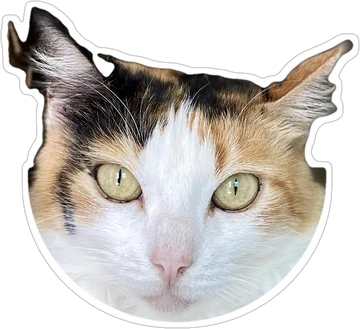
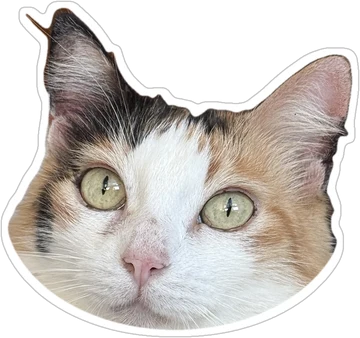
Links: nova figurinha da Mel e versão nova das imagens dos bichos
Claude-Session: https://claude.ai/code/session_01JJzwKmvC96HGkRzqWkPA92

diff --git a/links/index.html b/links/index.html
@@ -631,7 +631,7 @@
       <div class="bastidores revelar">
         <h3>Minha equipe de bastidores</h3>
         <p>Amo bicho desde criança. Toda gravação aqui em casa tem plateia (e, às vezes, participação especial).</p>
-        <div class="figurinhas"><figure class="figurinha"><img class="bicho" src="makes/pet-maya.webp" alt="Maya, gata tigrada cinza e branca" loading="lazy"><figcaption>Maya</figcaption></figure><figure class="figurinha"><img class="bicho" src="makes/pet-mel.webp" alt="Mel, gata tricolor" loading="lazy"><figcaption>Mel</figcaption></figure><figure class="figurinha"><img class="bicho" src="makes/pet-maggie.webp" alt="Maggie, cachorra preta de língua de fora" loading="lazy"><figcaption>Maggie</figcaption></figure></div>
+        <div class="figurinhas"><figure class="figurinha"><img class="bicho" src="makes/pet-maya.webp?v=5" alt="Maya, gata tigrada cinza e branca" loading="lazy"><figcaption>Maya</figcaption></figure><figure class="figurinha"><img class="bicho" src="makes/pet-mel.webp?v=5" alt="Mel, gata tricolor" loading="lazy"><figcaption>Mel</figcaption></figure><figure class="figurinha"><img class="bicho" src="makes/pet-maggie.webp?v=5" alt="Maggie, cachorra preta de língua de fora" loading="lazy"><figcaption>Maggie</figcaption></figure></div>
       </div>
       </div>
     </section>
